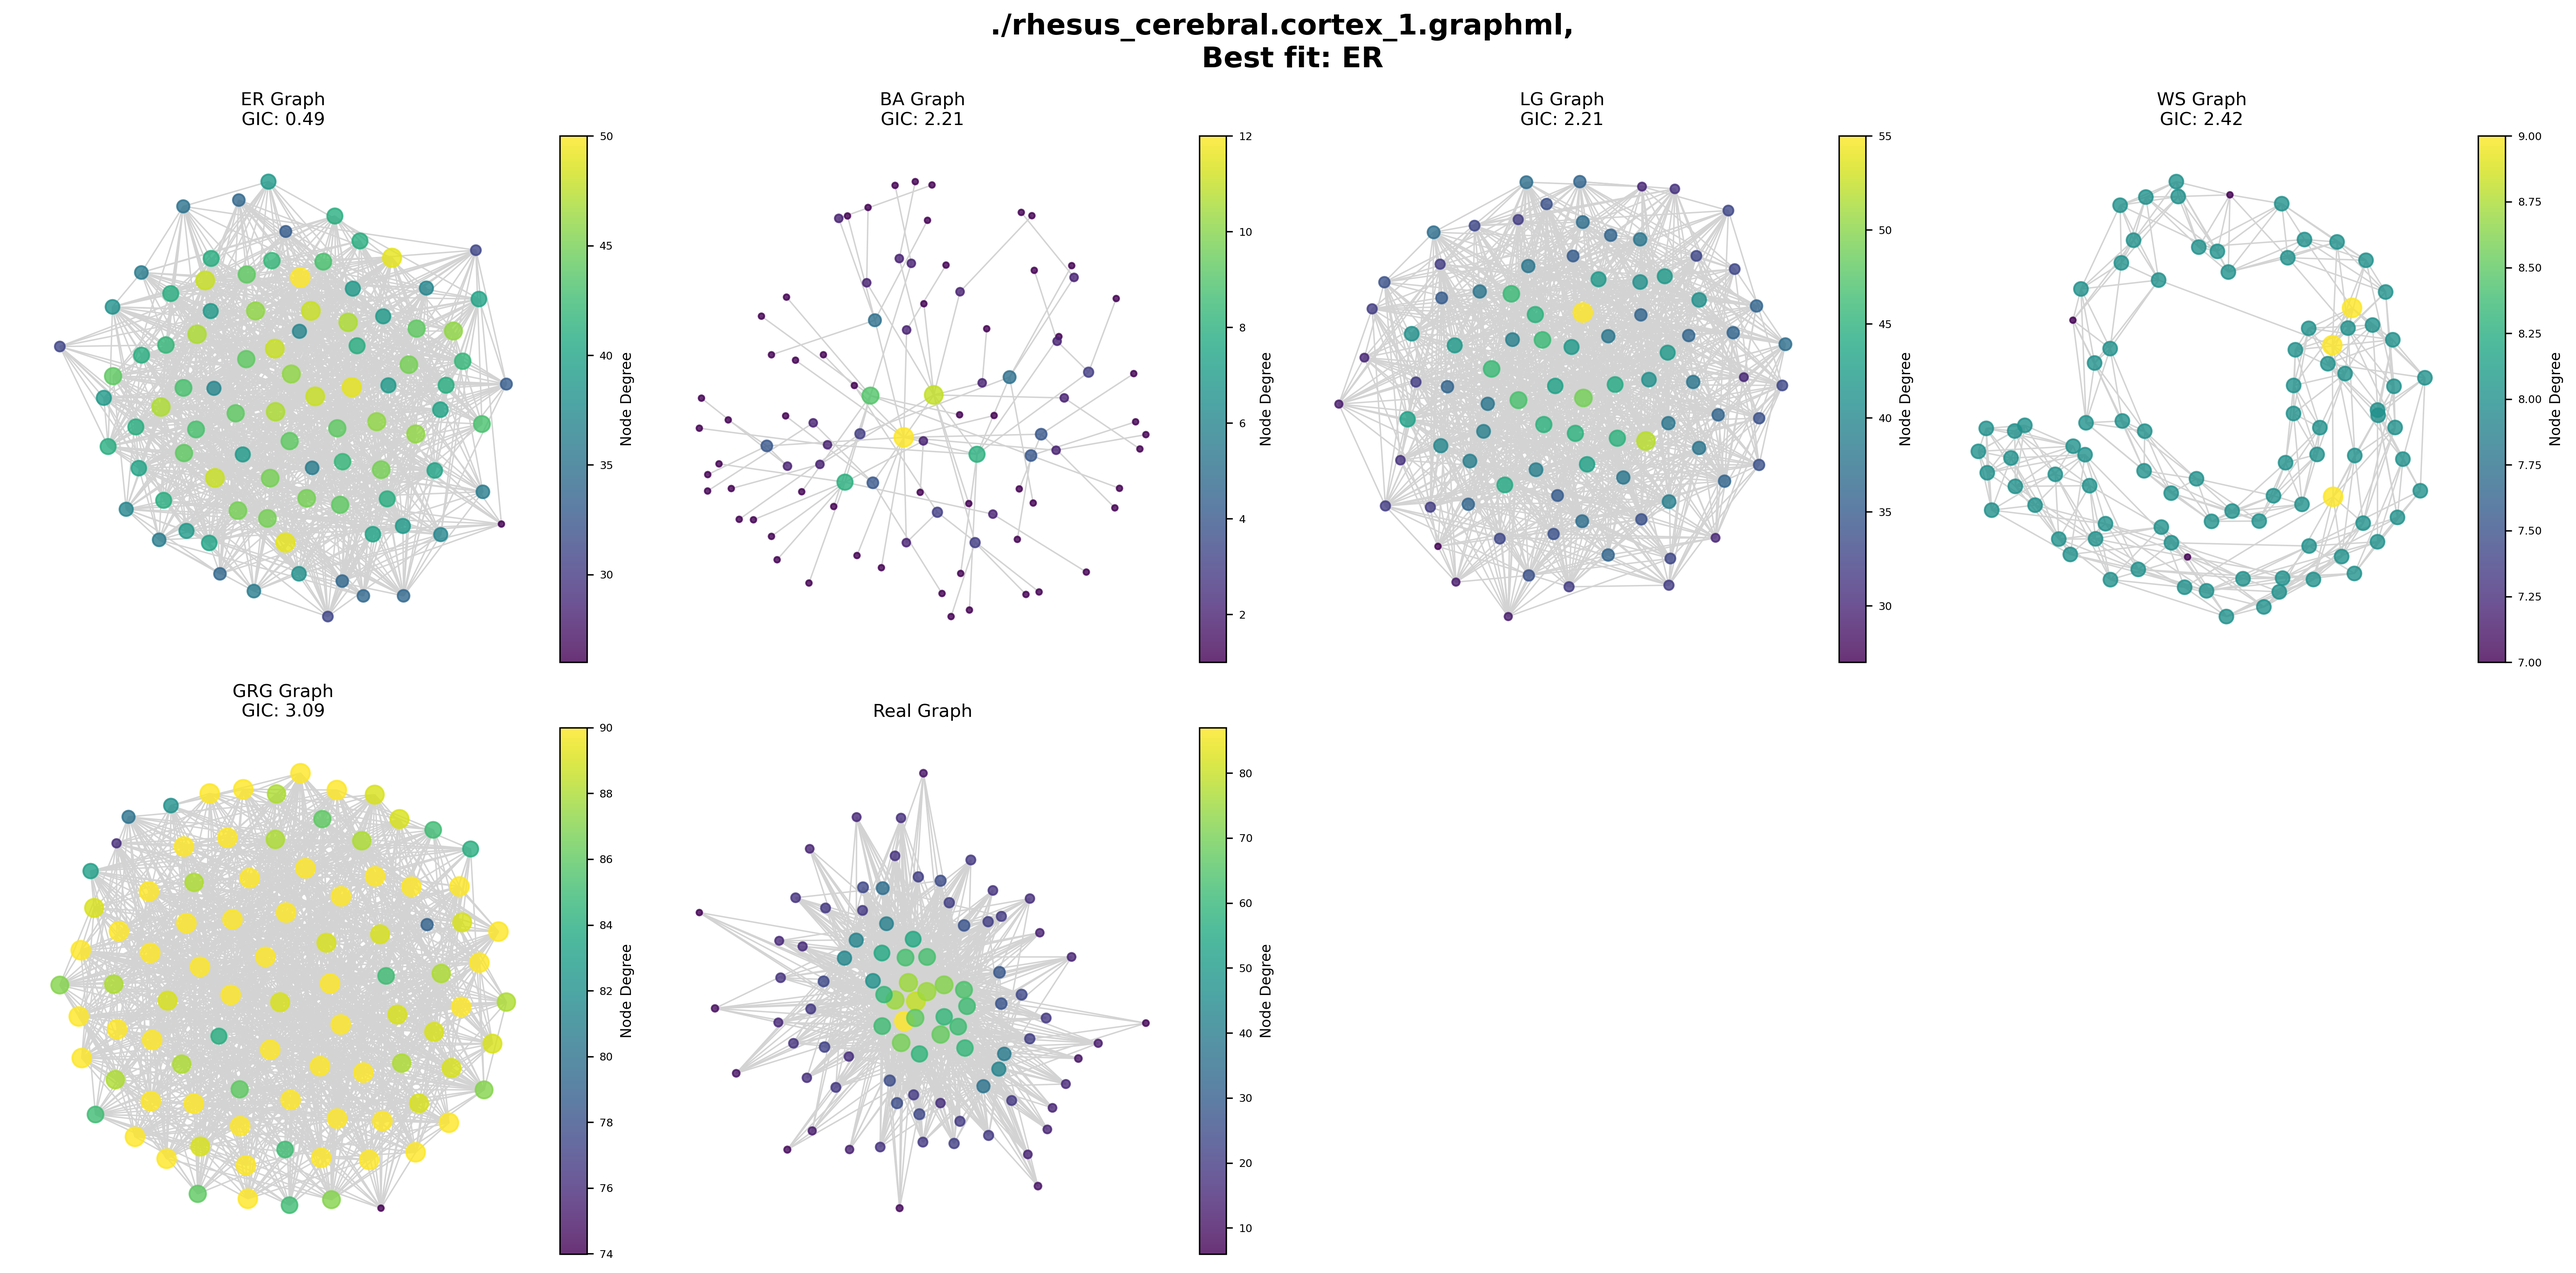
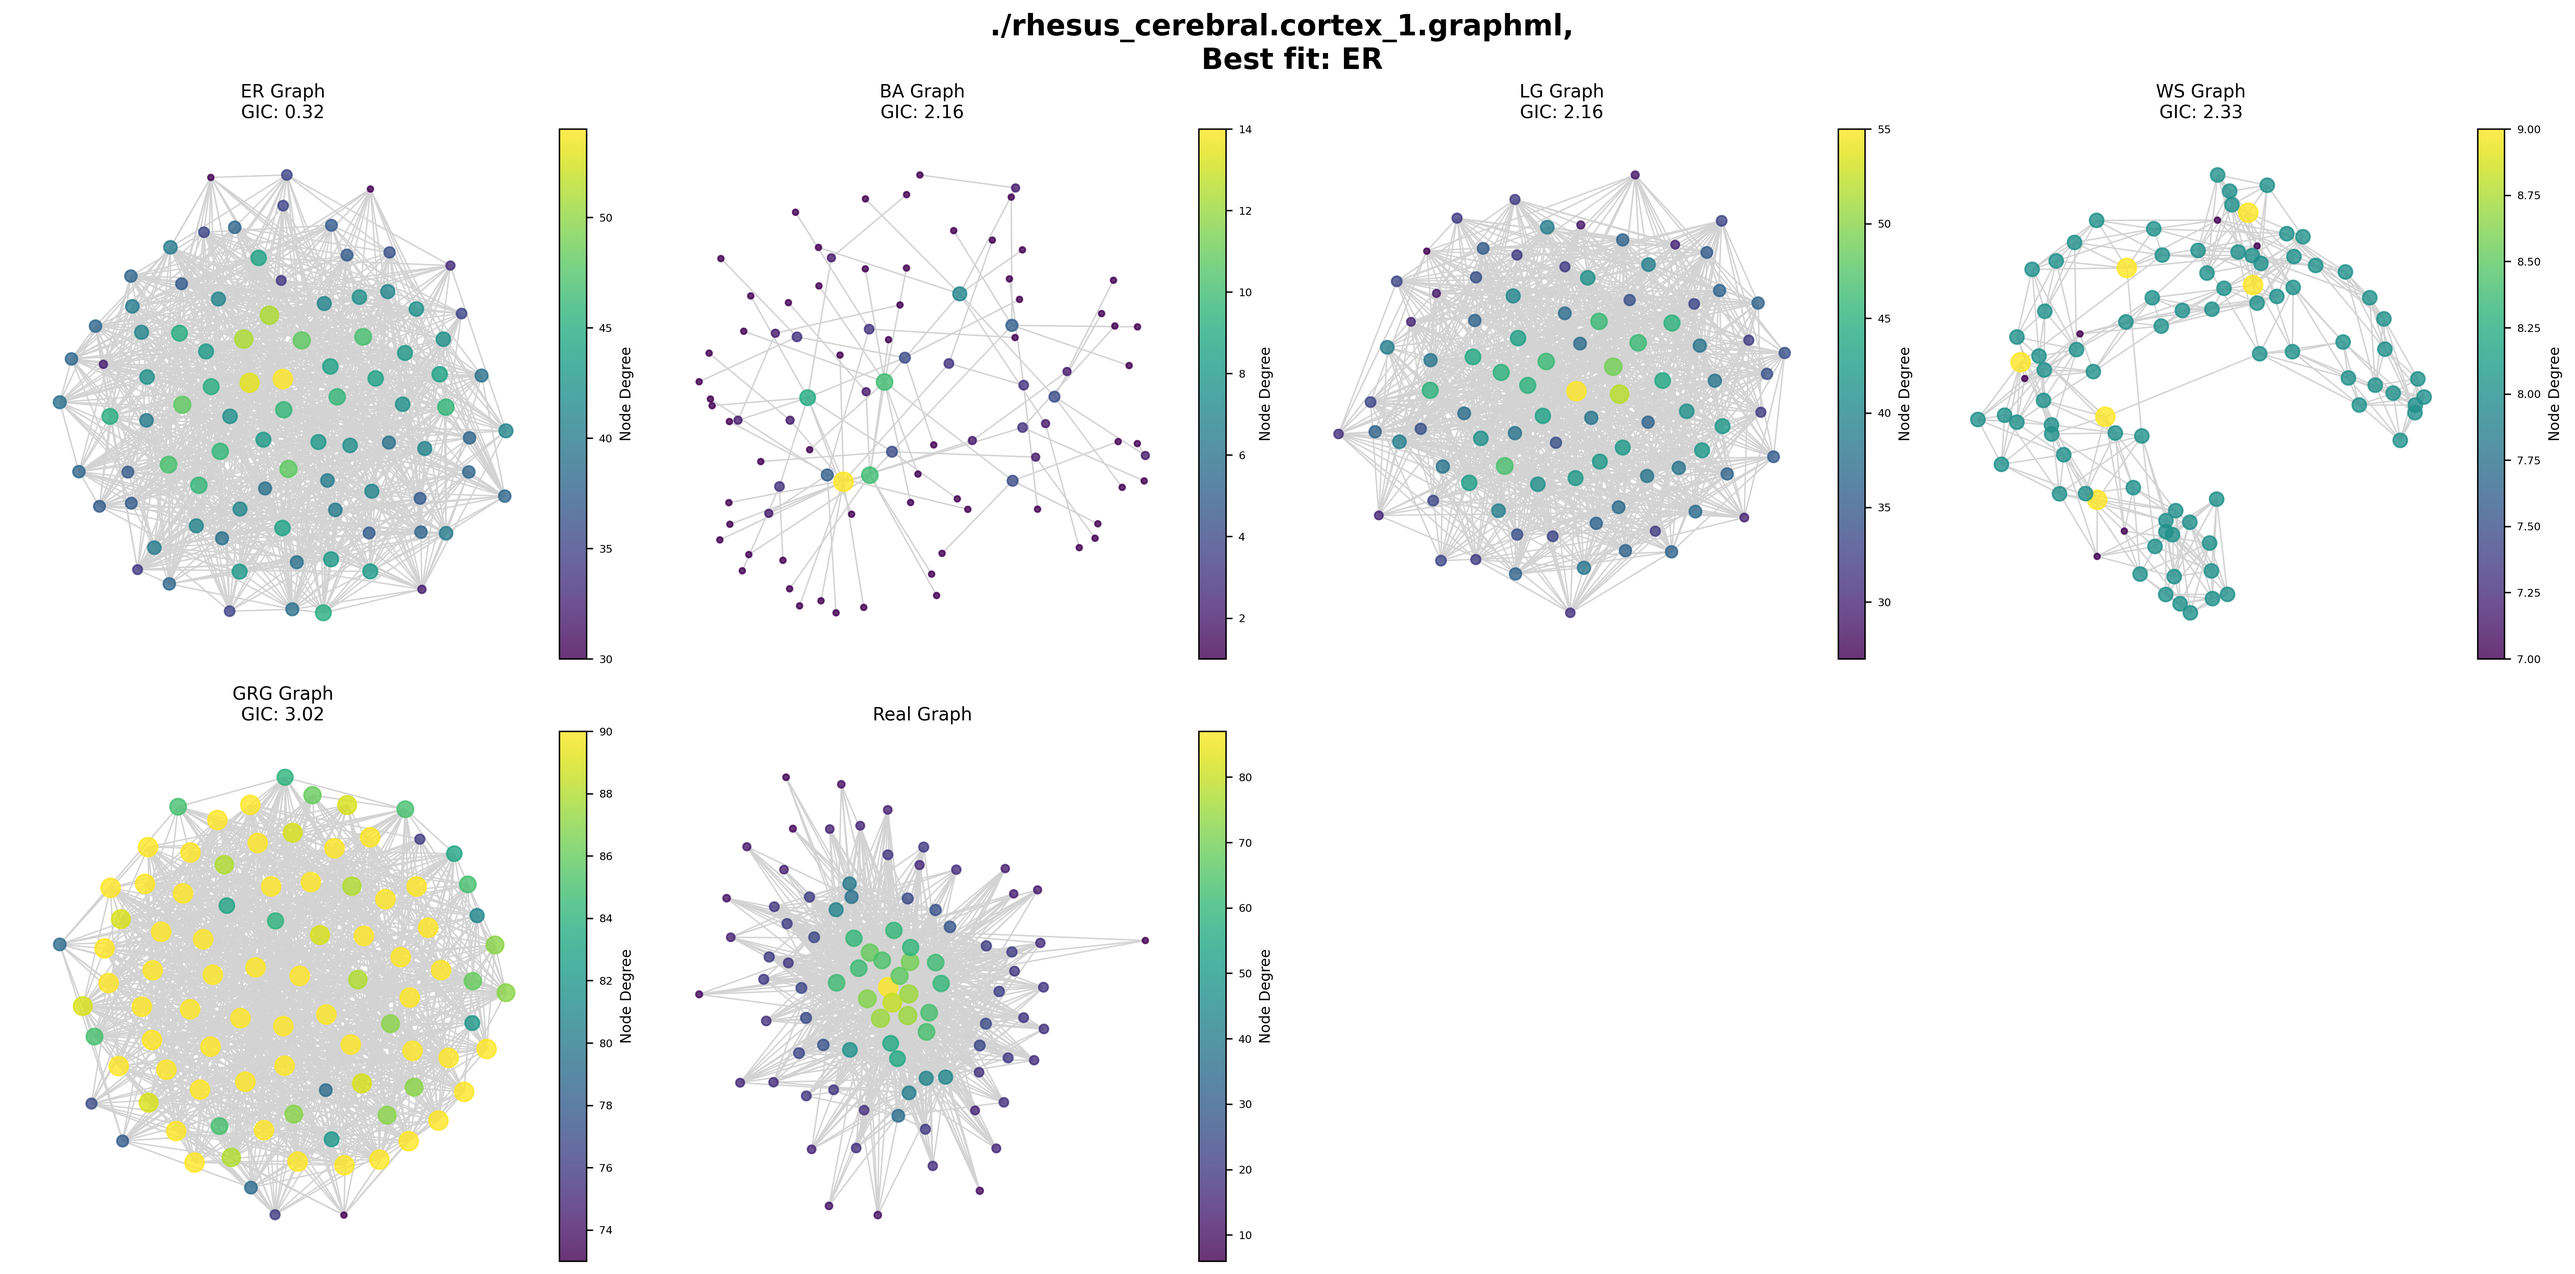
fix on scirpt

diff --git a/notebooks/tests_dataset.py b/notebooks/tests_dataset.py
@@ -16,6 +16,9 @@ import src.model_selection as ms
 
 # usual imports import matplotlib.pyplot as plt
 import math
+import matplotlib.pyplot as plt
+from scipy import stats
+from scipy.stats import gaussian_kde
 import numpy as np
 import pandas as pd
 import seaborn as sns
@@ -228,8 +231,12 @@ def plot_spectra_in_matrix(sim_graphs_dict, result_dict, global_title, bins=120,
 if __name__ == "__main__":
     sampled_indices = random.sample(range(len(connectomes)), len(connectomes))
     print(sampled_indices)
-    for i in sampled_indices:
+
+    #for i in sampled_indices:
+    for i in range(1):
+        i = 1 
         print(f"Processing connectome {i+1}/{len(connectomes)}: {connectomes[i]}")
+
         try:
             real_graph = nx.read_graphml(datasets + connectomes[i])
             real_graph = nx.to_numpy_array(real_graph)
@@ -326,11 +333,15 @@ if __name__ == "__main__":
                                                     ]
                                             )
 
-            result = selector.select_model()
-            result_dict = {item['model']: {'param': clean_and_convert(item['param']), 'GIC': item['GIC']} for item in result['estimates']}
-            min_gic_key = min(result_dict, key=lambda k: result_dict[k]['GIC'])
+            result = selector.select_model_avg_spectrum()
+
+            # For the average spectrum
+            result_dict = {item['model']: {'param': clean_and_convert(item['param']), 'distance': item['distance'], 'GIC': item['distance']} for item in result['estimates']}
+            min_distance_key = min(result_dict, key=lambda k: result_dict[k]['distance']) # Get best fit
+            min_gic_key = min(result_dict, key=lambda k: result_dict[k]['GIC']) # Get best fit based on GIC
             model_names = result_dict.keys()
 
+            # Plotting the analysis
             sim_graphs_dict = {}
             for model in model_names:
                 if model != 'LG':
@@ -359,6 +370,7 @@ if __name__ == "__main__":
 
             print(f"Completed processing for {connectomes[i]}")
             print("--------------------")
+
         except Exception as e:
             print(f"Error processing {connectomes[i]}: {e}")
         
